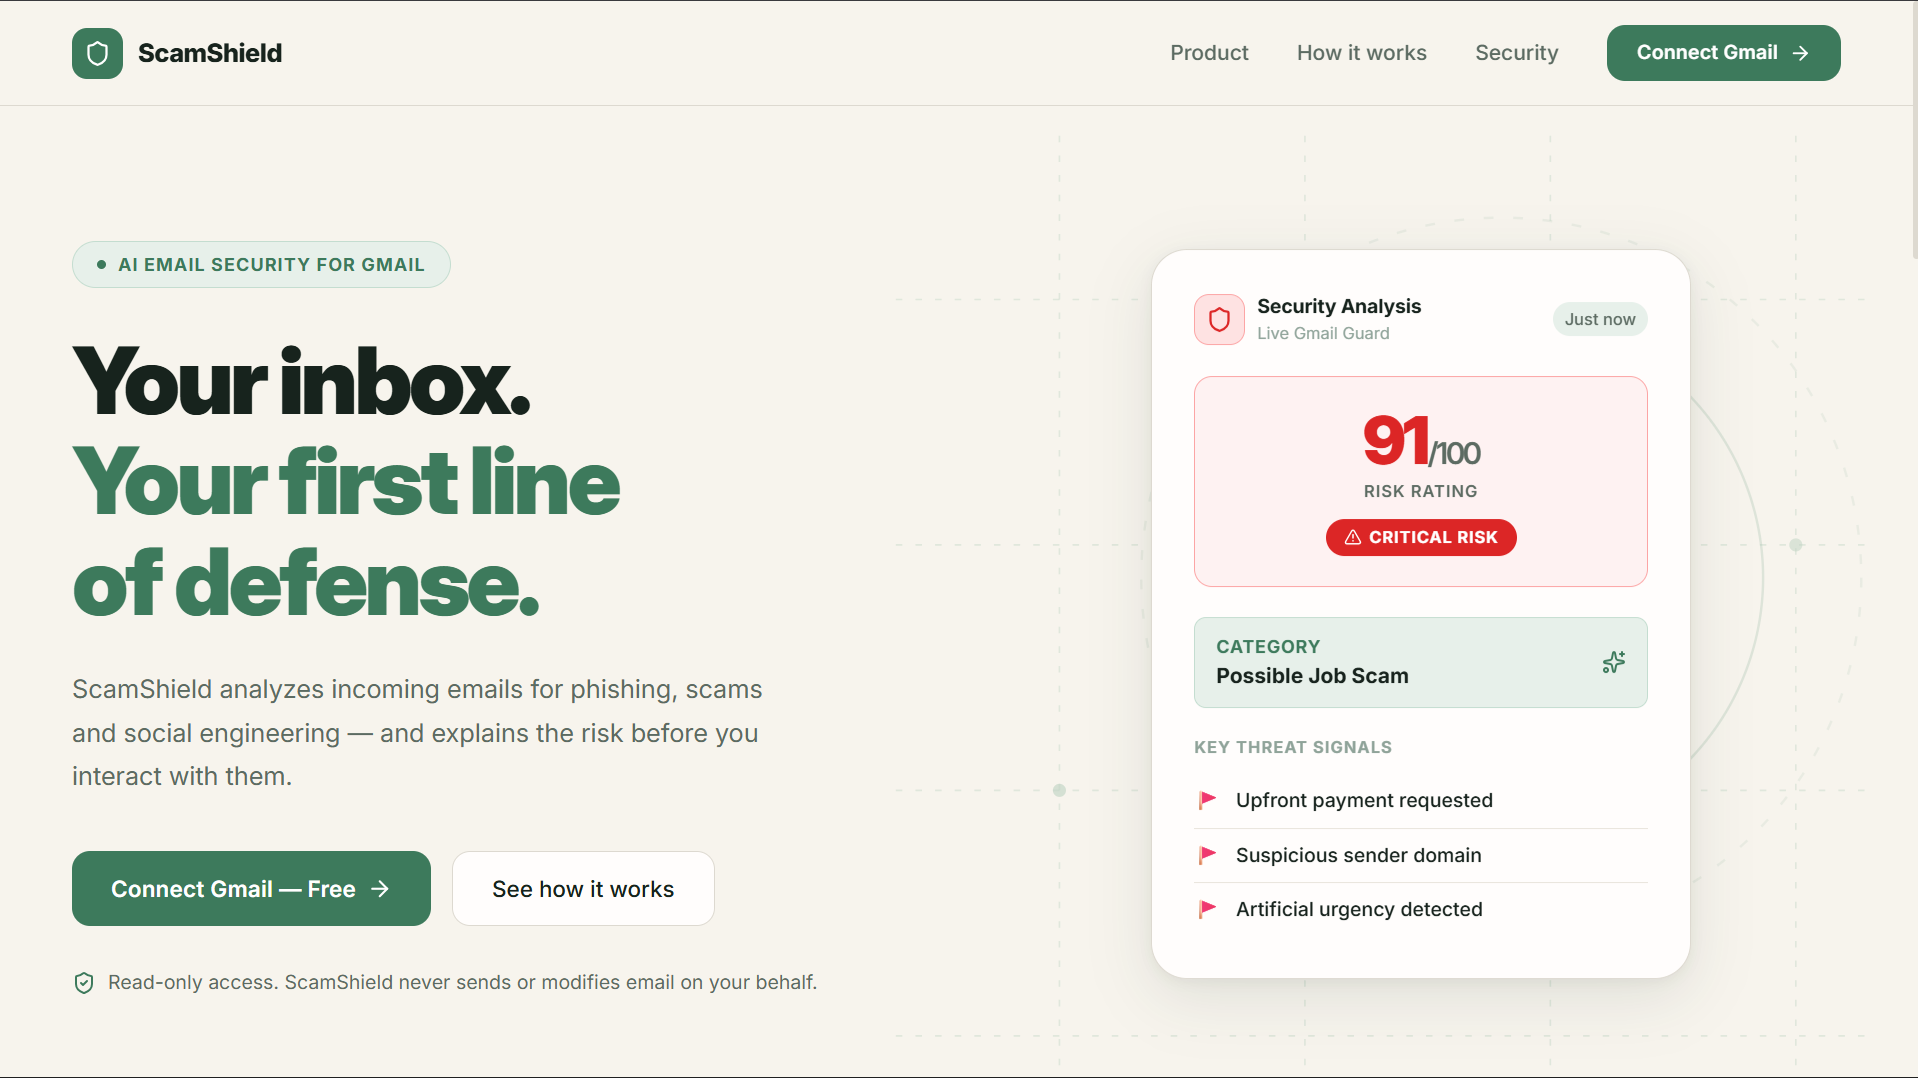
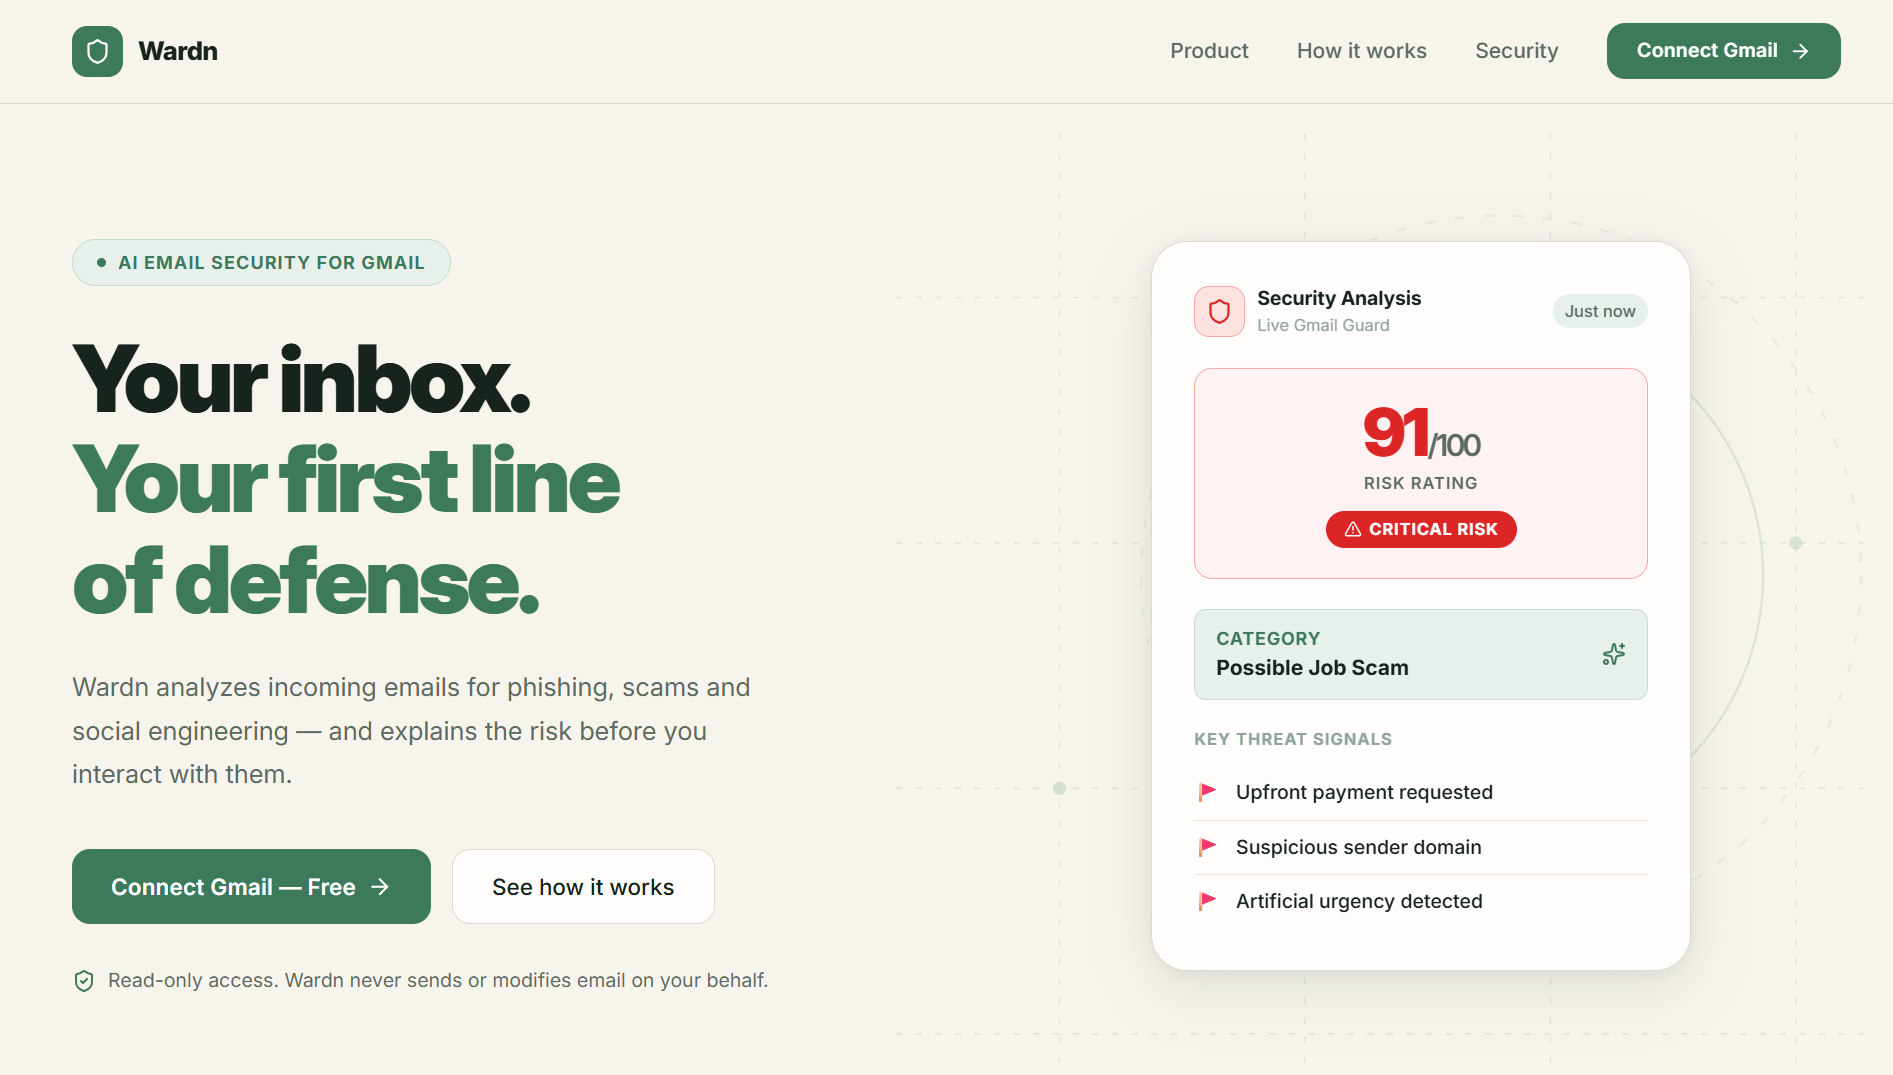
feat: rebrand ScamShield as WARDN

diff --git a/src/pages/SecurityAnalysis.jsx b/src/pages/SecurityAnalysis.jsx
@@ -2,7 +2,7 @@ import { useState, useEffect } from 'react'
 import { useParams, useNavigate } from 'react-router-dom'
 import { ArrowLeft, Shield, AlertTriangle, ExternalLink, ChevronDown, ChevronUp, Sparkles, CheckCircle2, XCircle } from 'lucide-react'
 import { demoEmails } from '../data/demoData'
-import { fetchEmailById } from '../api/scamShieldApi'
+import { fetchEmailById } from "../api/WardnApi";
 import ScoreRing from '../components/ui/ScoreRing'
 import RiskBadge from '../components/ui/RiskBadge'
 import AIDrawer from '../components/ui/AIDrawer'

diff --git a/src/pages/Dashboard.jsx b/src/pages/Dashboard.jsx
@@ -2,7 +2,7 @@ import { useState, useEffect } from 'react'
 import { useNavigate } from 'react-router-dom'
 import { Shield, Mail, AlertTriangle, CheckCircle, ChevronRight } from 'lucide-react'
 import { demoEmails, threatStats as localThreatStats } from '../data/demoData'
-import { fetchStats, fetchEmails } from '../api/scamShieldApi'
+import { fetchStats, fetchEmails } from '../api/WardnApi'
 import RiskBadge from '../components/ui/RiskBadge'
 import ScoreRing from '../components/ui/ScoreRing'
 

diff --git a/src/pages/Reports.jsx b/src/pages/Reports.jsx
@@ -1,7 +1,7 @@
 import { useState, useEffect } from 'react'
 import { PieChart, Pie, Cell, BarChart, Bar, XAxis, YAxis, Tooltip, ResponsiveContainer } from 'recharts'
 import { reportData as localReportData } from '../data/demoData'
-import { fetchStats } from '../api/scamShieldApi'
+import { fetchStats } from '../api/WardnApi'
 import ScoreRing from '../components/ui/ScoreRing'
 
 const CustomTooltip = ({ active, payload }) => {

diff --git a/src/components/ui/AIDrawer.jsx b/src/components/ui/AIDrawer.jsx
@@ -1,7 +1,7 @@
 import { useState, useRef, useEffect } from 'react'
 import { X, Send, Shield, Sparkles } from 'lucide-react'
 import { aiSuggestions, aiResponses } from '../../data/demoData'
-import { askAIAssistant } from '../../api/scamShieldApi'
+import { askAIAssistant } from '../../api/WardnApi'
 
 export default function AIDrawer({ onClose, emailContext }) {
   const [messages, setMessages] = useState([

diff --git a/src/pages/ConnectPage.jsx b/src/pages/ConnectPage.jsx
@@ -1,7 +1,7 @@
 import { useState } from 'react'
 import { useNavigate } from 'react-router-dom'
 import { Shield, Check, ShieldCheck } from 'lucide-react'
-import { startGmailConnect, fetchGmailStatus } from '../api/scamShieldApi'
+import { startGmailConnect, fetchGmailStatus } from '../api/WardnApi'
 
 export default function ConnectPage({ onConnect }) {
   const navigate = useNavigate()

diff --git a/src/pages/ThreatCenter.jsx b/src/pages/ThreatCenter.jsx
@@ -1,7 +1,7 @@
 import { useEffect, useState } from 'react'
 import { useNavigate } from 'react-router-dom'
 import { AlertTriangle, ChevronRight } from 'lucide-react'
-import { fetchThreats } from '../api/scamShieldApi'
+import { fetchThreats } from '../api/WardnApi'
 import RiskBadge from '../components/ui/RiskBadge'
 
 const severityColor = {

diff --git a/src/pages/Inbox.jsx b/src/pages/Inbox.jsx
@@ -1,6 +1,6 @@
 import { useState, useEffect } from 'react'
 import { Search, RefreshCw } from 'lucide-react'
-import { fetchEmails, syncGmail } from '../api/scamShieldApi'
+import { fetchEmails, syncGmail } from '../api/WardnApi'
 import EmailCard from '../components/ui/EmailCard'
 
 const filters = [

diff --git a/src/pages/Settings.jsx b/src/pages/Settings.jsx
@@ -1,4 +1,4 @@
-import { syncGmail, disconnectGmail } from '../api/scamShieldApi'
+import { syncGmail, disconnectGmail } from "../api/WardnApi";
 import { useState } from 'react'
 import { useNavigate } from 'react-router-dom'
 import { RefreshCw, LogOut, Shield, Lock, ShieldCheck } from 'lucide-react'

diff --git a/README.md b/README.md
@@ -1,34 +1,46 @@
-# 🛡 Wardn
+<div align="center">
 
-### AI-Assisted Email Security & Threat Detection Platform
+# 🛡 WARDN
 
-<p align="center">
-  Wardn connects to Gmail and analyzes incoming emails for phishing,
-  scams, suspicious links, and social-engineering threats — helping users
-  understand the risk before interacting with them.
-</p>
+### Warning, Analysis & Risk Detection Network
 
-<p align="center">
-  <a href="#-why-wardn">Why Wardn</a> •
-  <a href="#-features">Features</a> •
-  <a href="#-how-it-works">How It Works</a> •
-  <a href="#-tech-stack">Tech Stack</a> •
-  <a href="#-installation">Installation</a> •
-  <a href="#-security--privacy">Security</a> •
-  <a href="#-roadmap">Roadmap</a>
-</p>
+**AI-Assisted Email Security & Threat Detection Platform**
+
+WARDN connects to Gmail and analyzes incoming emails for phishing,
+scams, suspicious links, impersonation, and social-engineering threats —
+helping users understand security risks before interacting with them.
+
+<br>
+
+<img src="https://img.shields.io/badge/Python-3.13-blue?style=for-the-badge&logo=python&logoColor=white">
+<img src="https://img.shields.io/badge/React-Frontend-61DAFB?style=for-the-badge&logo=react&logoColor=black">
+<img src="https://img.shields.io/badge/FastAPI-Backend-009688?style=for-the-badge&logo=fastapi&logoColor=white">
+<img src="https://img.shields.io/badge/Gmail-API-EA4335?style=for-the-badge&logo=gmail&logoColor=white">
+<img src="https://img.shields.io/badge/SQLite-Database-003B57?style=for-the-badge&logo=sqlite&logoColor=white">
+
+<br>
+
+<img src="https://img.shields.io/badge/Cybersecurity-Threat%20Detection-red?style=for-the-badge">
+<img src="https://img.shields.io/badge/Authentication-Google%20OAuth%202.0-orange?style=for-the-badge">
+<img src="https://img.shields.io/badge/Status-Active-success?style=for-the-badge">
+
+</div>
 
 ---
 
 ## 🖥 Product Preview
 
 <p align="center">
-  <img src="docs/hero.png" alt="Wardn Landing Page" width="100%">
+  <img src="docs/hero.png" alt="WARDN Landing Page" width="100%">
+</p>
+
+<p align="center">
+  <em>WARDN security dashboard and email threat analysis interface.</em>
 </p>
 
 ---
 
-## 🧭 Why Wardn?
+## 🧭 Why WARDN?
 
 Email remains one of the most common entry points for phishing, fraud,
 credential theft, impersonation, and social-engineering attacks.
@@ -94,14 +106,20 @@ Each analyzed email can provide:
 * Detected threat indicators
 * Recommended action
 
-### 🤖 Wardn Assistant
+### 🤖 WARDN Assistant
 
 Users can ask questions about suspicious emails and receive
 plain-language security explanations.
 
 <p align="center">
-  <img src="docs/ai-assistant.png" alt="Wardn Assistant" width="90%">
+  <img src="docs/ai-assistant.png" alt="WARDN AI Security Assistant" width="100%">
 </p>
+
+<p align="center">
+  <em>Ask WARDN AI for plain-language explanations of suspicious emails.</em>
+</p>
+
+---
 
 The assistant is designed to help users understand security signals instead
 of relying only on a numerical risk score.
@@ -137,17 +155,12 @@ Users can inspect individual emails and view:
 Wardn is designed to identify multiple categories of email-based threats:
 
 <p align="center">
-  <img src="docs/threat-coverage.png" alt="Wardn Threat Coverage" width="100%">
+  <img src="docs/threat-coverage.png" alt="WARDN Threat Coverage" width="100%">
 </p>
 
-| Threat Category  | Example                                |
-| ---------------- | -------------------------------------- |
-| Phishing         | Credential theft through impersonation |
-| Job Scams        | Fraudulent employment offers           |
-| Payment Scams    | Fake transaction or payment requests   |
-| Impersonation    | Spoofed sender identity                |
-| Suspicious Links | Potentially malicious URLs             |
-| Account Takeover | Attempts to obtain account credentials |
+<p align="center">
+  <em>WARDN analyzes multiple categories of email-based threats.</em>
+</p>
 
 ---
 
@@ -280,7 +293,7 @@ Wardn/
 │
 ├── src/
 │   ├── api/
-│   │   └── scamShieldApi.js
+│   │   └── WardnApi.js
 │   │
 │   ├── components/
 │   │   ├── layout/
@@ -421,7 +434,7 @@ and analyzed for security purposes.
 
 Wardn follows a **read-only security model**.
 
-### Wardn can:
+### WARDN can:
 
 * ✅ Read emails for security analysis
 * ✅ Analyze sender information
@@ -429,7 +442,7 @@ Wardn follows a **read-only security model**.
 * ✅ Detect suspicious activity
 * ✅ Generate security reports
 
-### Wardn cannot:
+### WARDN cannot:
 
 * ❌ Send emails
 * ❌ Delete emails
